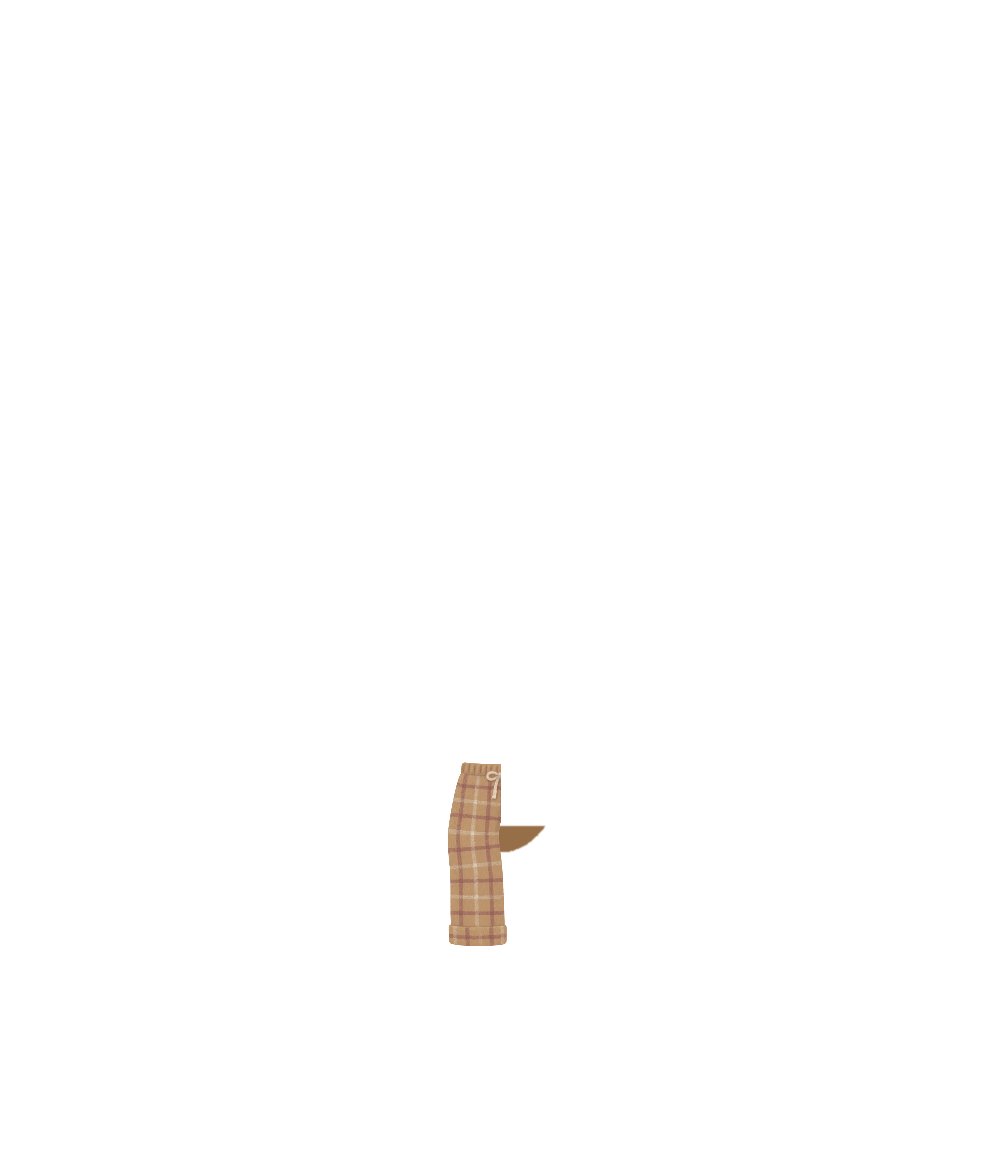
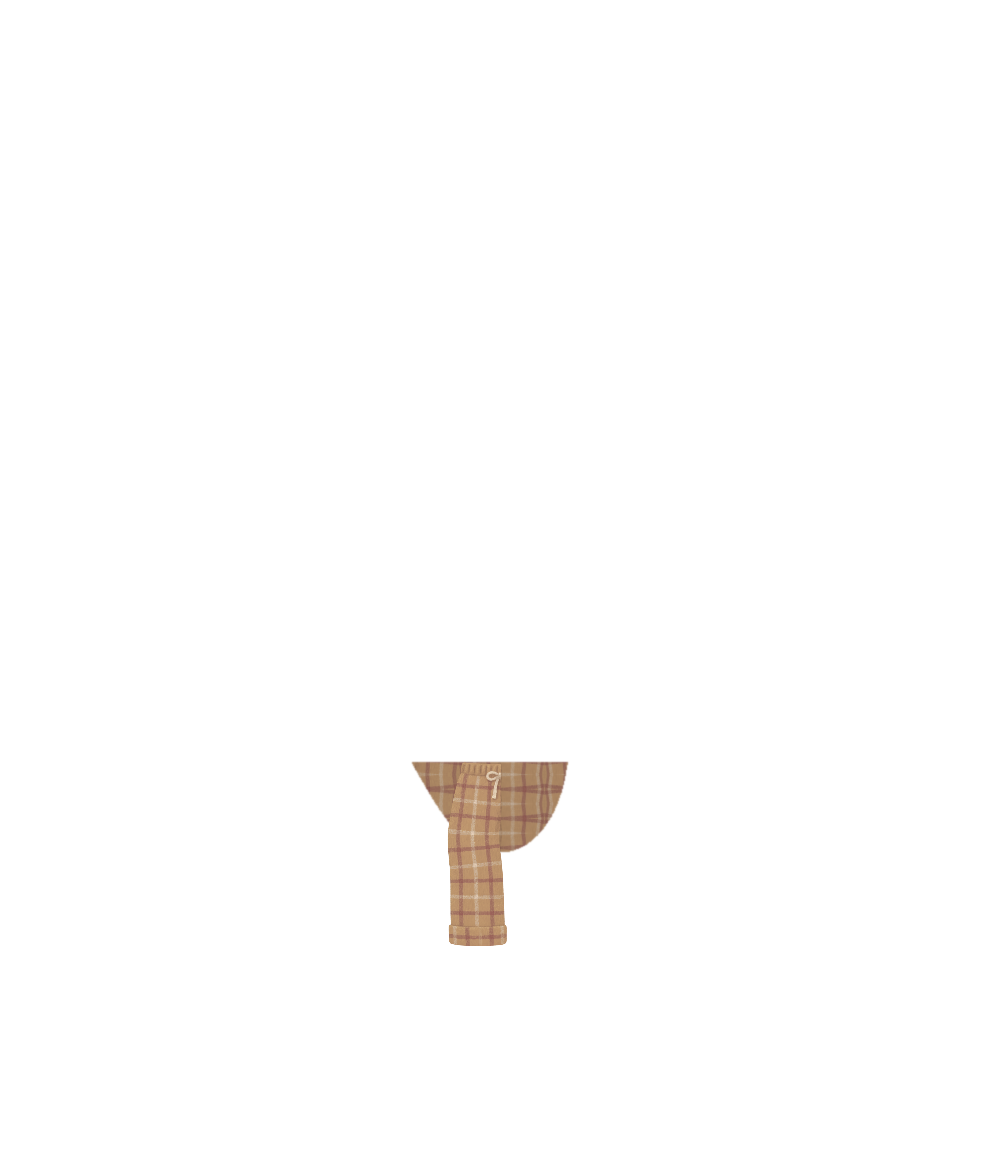
Presto regular pose in Erika's hat, glasses and tee; smoother pants over boots; level cello knees; no body behind his pants
- Ballad Bucket Hat, Fermata Frames, Tenuto Tee on Presto's regular pose from Erika's layered PDF (switched off).
- Keywi: boots under the joggers slope from the cuff corner to the boot's curve (no notches, no purple beside the pants).
- Cello: straight thigh and shin pieces, shin level with the thigh line.
- Presto crossed-leg poses: plaid covers his body below the waistband.

Claude-Session: https://claude.ai/code/session_01QFxDJgKewBc976sQiVPuU3

Changed region(s): [[0.496, 0.6391, 0.589, 0.7609], [0.403, 0.6391, 0.465, 0.7304]]

diff --git a/app/test/accessory_catalog_test.dart b/app/test/accessory_catalog_test.dart
@@ -395,7 +395,8 @@ void jalapenoOutfitTests() {
       expect(resolveAccessories(c, [i.id], 'strawberry', 'standing'), isEmpty, reason: i.id);
       final onPresto = i.id == 'jazzy_joggers' || i.id == 'serenade_sandals';
       for (final pose in prestoPoses) {
-        expect(resolveAccessories(c, [i.id], 'jalapeno', pose).isNotEmpty, onPresto, reason: '${i.id} $pose');
+        // Joggers and sandals are on all his poses; hat, glasses and tee on his regular pose so far.
+        expect(resolveAccessories(c, [i.id], 'jalapeno', pose).isNotEmpty, onPresto || pose == 'standing', reason: '${i.id} $pose');
       }
     }
     // Hat and glasses leave his body alone.
@@ -452,6 +453,14 @@ void jalapenoOutfitTests() {
       // The crossed foot is not drawn over another shoe.
       expect(order(e.value, e.key, ['red_sneakers', 'jazzy_joggers']).contains('foot.png'), isFalse);
     }
+    // His regular pose in Keywi's set (Erika's layers): sleeves over the arms, tee over the sleeves and the joggers, hat on top.
+    var st = order('assets/art/avatar_pose/jalapeno_standing', 'standing', ['tenuto_tee', 'jazzy_joggers', 'ballad_bucket_hat', 'fermata_frames']);
+    expect(st.indexOf('7_arm_viewer_left.png'), lessThan(st.indexOf('sleeve_viewer_right.png')));
+    expect(st.indexOf('sleeve_viewer_right.png'), lessThan(st.indexOf('sleeve_viewer_left.png')));
+    expect(st.indexOf('sleeve_viewer_left.png'), lessThan(st.indexOf('tee.png')));
+    expect(st.indexOf('front.png'), lessThan(st.indexOf('tee.png')));
+    expect(st.indexOf('2_mustache.png'), lessThan(st.indexOf('frames.png')));
+    expect(st.last, 'hat.png');
     // Under the instrument.
     var o = order('assets/art/avatar_instrument/jalapeno_ukulele', 'ukulele', ['jazzy_joggers']);
     expect(o.indexOf('front.png'), lessThan(o.indexOf('7_ukulele.png')));

diff --git a/tools/accessory_fitting/cello.py b/tools/accessory_fitting/cello.py
@@ -1,14 +1,44 @@
 from fit2 import *
 from PIL import ImageDraw, ImageFont
 TAG='avatar_instrument/jalapeno_cello'
+def straight(p0,p1,side,kw,sy0,sy1,roi,round_start=0,round_hw=0,cx=None):
+    """One straight piece of a pant leg from p0 to p1 (canvas px), showing source rows sy0..sy1 of that leg."""
+    x0,y0,x1,y1=roi; p0=np.array(p0,float); p1=np.array(p1,float); L=np.hypot(*(p1-p0)); T=(p1-p0)/L
+    yy,xx=np.mgrid[0:(y1-y0)*K,0:(x1-x0)*K]; q=np.stack([xx.ravel()/K+x0,yy.ravel()/K+y0],1)-p0
+    S=q@T; d=-(T[0]*q[:,1]-T[1]*q[:,0]); my=(sy0+S/L*(sy1-sy0)); mx=((XL if side=='L' else XR) if cx is None else (cx if side=='L' else 2*XC-cx))+d/kw
+    my=np.where((S<0)|(S>L),-10,my).reshape(yy.shape).astype(np.float32); mx=mx.reshape(yy.shape).astype(np.float32)
+    src=PANTS.copy()
+    if side=='L': src[:,XC+3:,3]=0
+    else: src[:,:XC-3,3]=0
+    pm=np.concatenate([src[...,:3]*src[...,3:],src[...,3:]],-1); pm=cv2.GaussianBlur(pm,(0,0),max(0.5,0.35/(kw*K)))
+    o=cv2.remap(pm,mx,my,cv2.INTER_LINEAR,borderMode=cv2.BORDER_CONSTANT,borderValue=0)
+    if round_start:   # round the outer corner at the start of this piece (the knee)
+        hw=round_hw; r=round_start; Sg=S.reshape(yy.shape); dg=np.abs(d).reshape(yy.shape)
+        cut=(Sg<r)&(dg>hw-r)&(((r-Sg)**2+(dg-(hw-r))**2)>r*r); o[cut]=0
+    o=cv2.resize(o,(x1-x0,y1-y0),interpolation=cv2.INTER_AREA); al=np.maximum(o[...,3:],1e-6)
+    out=np.zeros((1000,1000,4),np.float32); out[y0:y1,x0:x1]=np.concatenate([np.clip(o[...,:3]/al,0,1),o[...,3:]],-1); return out
 def build():
-    m,leg,a=legs_of(TAG); Li,Ri=leg_info(a,True),leg_info(a,False); kw=.22; h=(XC-XL)*kw; mid=478.0; cuff=min(Li['foot_top'],Ri['foot_top'])-5
-    def pts(sg):
-        X=lambda x: x if sg>0 else 2*mid-x   # points given for the viewer-left leg, mirrored for the other
-        return [(X(mid-h),756),(X(mid-h),784),(X(425),800),(X(372),803),(X(326),805),(X(303),826),(X(302),856),(X(304),cuff)]
-    L=sum(np.hypot(*np.diff(np.array(pts(1)),axis=0).T)); kl0=L/ph*0.55
-    A=ribbon(pts(1),'L',kw,kl0,(200,740,520,930)); B=ribbon(pts(-1),'R',kw,kl0,(440,740,760,930))
-    g=np.zeros_like(A); poly=np.array([[mid-h,770],[mid+h,770],[mid+h+28,838],[mid-h-28,838]],np.int32); mk=np.zeros(A.shape[:2],np.uint8); cv2.fillPoly(mk,[poly],255)
+    """Seated: each pant leg is a straight thigh piece and a straight shin piece that overlaps it at the knee (a folded
+    knee, not a curve, so the plaid stays straight on both pieces)."""
+    m,leg,a=legs_of(TAG); Li,Ri=leg_info(a,True),leg_info(a,False); kw=.22; hw=(XC-XL)*kw; mid=478.0; cuff=min(Li['foot_top'],Ri['foot_top'])-5
+    ty=803.0; knee=303.0; split=CYS+(ph-CYS)*0.60      # source rows: thigh gets 60% of the leg, shin the rest
+    def meas(row,side):
+        r=np.nonzero(PANTS[int(row),:XC,3]>0.5)[0] if side=='L' else np.nonzero(PANTS[int(row),XC:,3]>0.5)[0]+XC
+        c=(r.max()+r.min())/2; return (r.max()-r.min())/2*kw, (c if side=='L' else 2*XC-c)     # half width, centre (as a left-leg column)
+    out=[]
+    for side,sg in (('L',1),('R',-1)):
+        X=lambda x: x if sg>0 else 2*mid-x
+        hwk,cxs=meas(split,side); _,cxt=meas((CYS+split)/2,side)
+        roi=(200,740,520,930) if sg>0 else (440,740,760,930)
+        hip=straight((X(mid-hw),752),(X(mid-hw),ty),side,kw,0,CYS,roi)
+        thigh=straight((X(mid-8),ty),(X(knee),ty),side,kw,CYS,split,roi,cx=cxt)
+        _t=np.nonzero(thigh[:,int(X(knee+6)),3]>0.5)[0]; ttop=float(_t.min())      # top line of the thigh at the knee
+        shin=straight((X(knee),ttop),(X(knee+1),cuff),side,kw,split-60,ph,roi,round_start=16,round_hw=hwk,cx=cxs)   # shin starts level with it
+        # a soft fold line where the shin hangs over the thigh
+        sh=np.zeros_like(shin); sm=cv2.GaussianBlur(shin[...,3],(0,0),2.2); sh[...,3]=np.clip(sm-shin[...,3],0,1)*0.30*(thigh[...,3]>0.5)
+        out.append(over(over(over(hip,thigh),sh),shin))
+    A,B=out
+    g=np.zeros_like(A); poly=np.array([[mid-hw,770],[mid+hw,770],[mid+hw+28,838],[mid-hw-28,838]],np.int32); mk=np.zeros(A.shape[:2],np.uint8); cv2.fillPoly(mk,[poly],255)
     g[...,:3]=FABRIC; g[...,3]=cv2.GaussianBlur(mk.astype(np.float32)/255,(0,0),0.8); A=over(g,A)
     sL=sandal(Li['fx'][1],Li['fx'][0],Li['bot']); sR=sandal(Ri['fx'][0],Ri['fx'][1],Ri['bot'])
     return dict(m=m,leg=leg,A=A,B=B,legs_trim=trimmed_legs(a,cuff),soles=over(sL[0],sR[0]),straps=over(sL[1],sR[1]))

diff --git a/tools/accessory_fitting/std.py b/tools/accessory_fitting/std.py
@@ -1,0 +1,44 @@
+# Señor Jalapresto, regular pose: Ballad Bucket Hat, Fermata Frames and Tenuto Tee from Erika's layered PDF presto_top_half.pdf
+import numpy as np, cv2, sys
+from PIL import Image, ImageDraw, ImageFont
+sys.path.insert(0,'/home/claude/pp'); import fit2 as F
+AR=F.AR; TAG='avatar_pose/jalapeno_standing'
+bb_pdf=Image.open('body.png').getbbox(); bb_app=Image.open(AR+TAG+'/1_body.png').getbbox()
+kx=(bb_app[2]-bb_app[0])/(bb_pdf[2]-bb_pdf[0]); ky=(bb_app[3]-bb_app[1])/(bb_pdf[3]-bb_pdf[1]); k=(kx+ky)/2
+M=np.float32([[k,0,bb_app[0]-bb_pdf[0]*k],[0,k,bb_app[1]-bb_pdf[1]*k]])
+def piece(*names):
+    out=None
+    for n in names:
+        a=np.asarray(Image.open(n+'.png').convert('RGBA')).astype(np.float32)/255; pm=np.concatenate([a[...,:3]*a[...,3:],a[...,3:]],-1)
+        o=cv2.warpAffine(pm,M,(1000,1000),flags=cv2.INTER_AREA); al=np.maximum(o[...,3:],1e-6); o=np.concatenate([np.clip(o[...,:3]/al,0,1),np.clip(o[...,3:],0,1)],-1)
+        out=o if out is None else F.over(out,o)
+    return out
+P=dict(hat=piece('hat'),glasses=piece('glasses'),tee=piece('tee_border','tee_fill','tee_line','logo'),sl=piece('sleeve_l_fill','sleeve_l_line'),sr=piece('sleeve_r_fill','sleeve_r_line'))
+L=lambda n: F.lay(AR+TAG+f'/{n}.png')
+ac=AR+'accessories/'; g=lambda i,f: F.lay(ac+f'{i}/jalapeno_standing/{f}')[40:1040]
+JS=dict(sole_flat=g('serenade_sandals','sole_flat.png'),strap_flat=g('serenade_sandals','strap_flat.png'),sole_tip=g('serenade_sandals','sole_tiptoe.png'),strap_tip=g('serenade_sandals','strap_tiptoe.png'),
+        soles=g('serenade_sandals','soles.png'),straps=g('serenade_sandals','straps.png'),back=g('jazzy_joggers','back.png'),foot=g('jazzy_joggers','foot.png'),front=g('jazzy_joggers','front.png'))
+def render(what):
+    w=set(what); ls=[L('1_body'),L('4_eyes_brows'),L('3_teeth'),L('2_mustache')]
+    if 'glasses' in w: ls.append(P['glasses'])
+    j,s='joggers' in w,'sandals' in w
+    if s: ls.append(JS['sole_flat'] if j else JS['soles'])
+    ls.append(L('5_legs_feet'))
+    if s: ls.append(JS['strap_flat'] if j else JS['straps'])
+    if j: ls+= [JS['back']]+([JS['sole_tip']] if s else [])+[JS['foot']]+([JS['strap_tip']] if s else [])+[JS['front']]
+    ls+= [L('6_arm_viewer_right'),L('7_arm_viewer_left')]
+    if 'tee' in w: ls+= [P['sr'],P['sl'],P['tee']]
+    if 'hat' in w: ls.append(P['hat'])
+    return F.img(F.flat(ls))
+if __name__=='__main__':
+    print('scale',kx,ky)
+    cols=[('Plain',[]),('Ballad Bucket Hat',['hat']),('Fermata Frames',['glasses']),('Tenuto Tee',['tee']),('Hat + Frames + Tee',['hat','glasses','tee']),('Whole set',['hat','glasses','tee','joggers','sandals'])]
+    f=ImageFont.truetype('/usr/share/fonts/truetype/dejavu/DejaVuSans-Bold.ttf',24); cw=520
+    W=Image.new('RGB',(cw*3,(cw+44)*2),'white'); d=ImageDraw.Draw(W)
+    for i,(n,wh) in enumerate(cols):
+        x,y=(i%3)*cw,(i//3)*(cw+44); W.paste(render(wh).resize((cw,cw),Image.LANCZOS),(x,y+44)); d.text((x+12,y+10),n,fill=(60,40,110),font=f)
+    W.save('Presto_regular_pose_your_layers.png')
+    a=Image.open('pg-1.png').convert('RGB').crop((150,0,850,1042)).resize((640,953)); b=render(['hat','glasses','tee']).crop((180,0,820,1000)).resize((640,1000),Image.LANCZOS); c=render(['hat','glasses','tee','joggers','sandals']).crop((180,0,820,1000)).resize((640,1000),Image.LANCZOS)
+    Z=Image.new('RGB',(1960,1050),'white'); dz=ImageDraw.Draw(Z)
+    for i,(n,im) in enumerate((('Your PDF',a),('In the app build',b),('With the joggers and sandals',c))): Z.paste(im,(i*655,45)); dz.text((i*655+10,8),n,fill=(60,40,110),font=f)
+    Z.save('Presto_regular_pose_yours_vs_app.png')

diff --git a/tools/accessory_fitting/boots.py b/tools/accessory_fitting/boots.py
@@ -1,3 +1,4 @@
+import cv2
 import numpy as np, json
 from PIL import Image
 import sys; sys.path.insert(0,'/home/claude/pp'); import fit2 as F
@@ -15,15 +16,28 @@ def profile(al,kind):
 _m,_leg,_a=F.legs_of('avatar_pose/kiwi_standing'); PA,PB,_cr,_inf,_cuff=F.joggers_two_legs(_a,.22,702); PA,PB=PA[:1000],PB[:1000]
 yy=np.arange(1000)[:,None]
 def cuff_line(leg):
-    """per column: the bottom edge of this pant leg's cuff, carried sideways past both ends of the cuff"""
-    al=leg[...,3]>0.5; cols=np.nonzero(al.any(0))[0]; bot=np.array([np.nonzero(al[:,x])[0].max() for x in cols]); keep=bot>bot.max()-28
-    line=np.full(1000,float(bot.max())); line[cols[keep].min():cols[keep].max()+1]=np.interp(np.arange(cols[keep].min(),cols[keep].max()+1),cols[keep],bot[keep]); return line
+    """Per column: where the boot may start showing. Under the flat bottom edge of this pant leg's cuff it is that edge;
+    everywhere else (rounded cuff corners, the sides of the pant leg, columns the pants do not reach) it is the cuff's
+    lowest point, so no boot shows beside the pants above their bottom edge."""
+    al=leg[...,3]>0.5; cols=np.nonzero(al.any(0))[0]; bot=np.array([np.nonzero(al[:,x])[0].max() for x in cols]).astype(float)
+    flat=np.abs(np.gradient(bot))<1.0; i=int(bot.argmax()); lo=hi=None
+    # the longest run of gently sloping columns: the cuff's bottom edge
+    runs=[]; st=None
+    for k,f in enumerate(flat):
+        if f and st is None: st=k
+        if (not f or k==len(flat)-1) and st is not None: runs.append((st,k if not f else k+1)); st=None
+    lo,hi=max(runs,key=lambda r:r[1]-r[0]); lo,hi=lo+8,hi-8   # stay clear of the rounded cuff corners
+    line=np.full(1000,float(bot.max())); line[cols[lo]:cols[hi-1]+1]=bot[lo:hi]; return line
 def boot_top(boot):
     al=boot[...,3]>0.5; cols=np.nonzero(al.any(0))[0]; top=np.array([np.nonzero(al[:,x])[0].min() for x in cols]); keep=top<top.min()+14
     return np.interp(np.arange(1000),cols[keep],top[keep])
 def over_boots(boot,leg):
     """Option B: pants over the boots - the boot shows only below that pant leg's cuff."""
-    o=boot.copy(); o[...,3]*=(yy>=cuff_line(leg)[None,:]-3); return o
+    o=boot.copy(); keep=(yy>=cuff_line(leg)[None,:]-2)&(boot[...,3]>0.5)
+    # Grade the cut: instead of a step beside the cuff, the boot's edge runs in a straight slope from the cuff's bottom
+    # corner out to the curve of the boot (convex hull of what is kept, still inside the boot's own shape).
+    pts=cv2.findNonZero(keep.astype(np.uint8)); hull=np.zeros(keep.shape,np.uint8); cv2.fillConvexPoly(hull,cv2.convexHull(pts),1)
+    m=cv2.GaussianBlur(hull.astype(np.float32),(0,0),0.8); o[...,3]*=np.clip(m*1.6-0.3,0,1); return o
 def shaft(boot):
     al=boot[...,3]>0.5; cols=np.nonzero(al.any(0))[0]; top=np.array([np.nonzero(al[:,x])[0].min() for x in cols]); keep=top<top.min()+14; return cols[keep].mean(), float(top.min())
 def tucked():

diff --git a/tools/accessory_fitting/wire_top.py b/tools/accessory_fitting/wire_top.py
@@ -1,0 +1,24 @@
+# Wires Erika's hat, glasses and tee (presto_top_half.pdf) onto Señor Jalapresto's regular pose.
+import json, os, numpy as np, sys
+from PIL import Image
+sys.path.insert(0,'/home/claude/th'); import std
+AC='/home/claude/jamjot/app/assets/art/accessories/'; T,B=40,110; TAG='jalapeno_standing'
+def save(x,item,name):
+    c=np.zeros((1000+T+B,1000,4),np.float32); c[T:T+1000]=x; d=f'{AC}{item}/{TAG}/'; os.makedirs(d,exist_ok=True); Image.fromarray((np.clip(c,0,1)*255).round().astype('uint8')).save(d+name)
+P=std.P
+save(P['hat'],'ballad_bucket_hat','hat.png'); save(P['glasses'],'fermata_frames','frames.png'); save(P['sr'],'tenuto_tee','sleeve_viewer_right.png'); save(P['sl'],'tenuto_tee','sleeve_viewer_left.png'); save(P['tee'],'tenuto_tee','tee.png')
+art={'ballad_bucket_hat':[{'slot':'hat','file':'hat.png'}],'fermata_frames':[{'slot':'face','file':'frames.png'}],
+     'tenuto_tee':[{'slot':'clothing_lower','file':'sleeve_viewer_right.png'},{'slot':'clothing_lower','file':'sleeve_viewer_left.png'},{'slot':'clothing_lower','file':'tee.png'}]}
+c=json.load(open(AC+'catalog.json'))
+for it in c['items']:
+    if it['id'] in art:
+        it['art'][TAG]=art[it['id']]
+        if it['id']=='ballad_bucket_hat': it.setdefault('frames',{})[TAG]=[0,2,985]
+note=" Ballad Bucket Hat, Fermata Frames and Tenuto Tee on Señor Jalapresto's regular pose are Erika's own layers (presto_top_half.pdf, 2026-11-13): sleeves over the arms, tee over the sleeves and over the joggers' waistband, glasses over the mustache."
+if 'presto_top_half.pdf' not in c['note']: c['note']=c['note'].rstrip()+note
+open(AC+'catalog.json','w').write(json.dumps(c,indent=2,ensure_ascii=False)+'\n')
+p='/home/claude/jamjot/app/pubspec.yaml'; s=open(p).read(); anchor='    - assets/art/accessories/black_top_hat/\n'; add=''
+for item in art:
+    line=f'    - assets/art/accessories/{item}/{TAG}/\n'
+    if line not in s: add+=line
+open(p,'w').write(s.replace(anchor,add+anchor,1))

diff --git a/tools/accessory_fitting/fit2.py b/tools/accessory_fitting/fit2.py
@@ -95,3 +95,15 @@ def img(c): return Image.fromarray((np.clip(c[...,:3],0,1)*255).round().astype('
 def trimmed_legs(a,cuff,keep=10):
     """The legs layer with everything above the pant cuffs removed, so no leg shows outside the pants."""
     o=a.copy(); o[:int(cuff-keep),:,3]=0; return o
+
+def seat_fill(body_alpha,mid_x,waist_y,kw,kl,start=2,shade=0.9):
+    """Plaid fabric over every part of the body that would show below the waistband (behind and beside the pants), so
+    no body peeks out. Texture is the pants' own hip block, mirrored sideways and repeated downward to cover the area."""
+    yy,xx=np.mgrid[0:1000,0:1000].astype(np.float32); sx=XC+(xx-mid_x)/kw; sy=(yy-waist_y)/kl
+    al=PANTS[...,3]>0.5; r=np.nonzero(al[int(CY*0.6)])[0]; x0,x1=float(r.min()+25),float(r.max()-25); w=x1-x0
+    u=np.mod(sx-x0,2*w); sx=x0+np.where(u>w,2*w-u,u)                      # mirror across the hip block's sides
+    y0,y1=265.0,float(CY-30); hh=y1-y0; v=np.mod(sy-y0,2*hh); sy=y0+np.where(v>hh,2*hh-v,v)     # plain plaid rows only (below the bow, above the crotch)
+    pm=cv2.GaussianBlur(PANTS[...,:3],(0,0),max(0.5,0.35/kw)); tex=cv2.remap(pm,sx.astype(np.float32),sy.astype(np.float32),cv2.INTER_LINEAR,borderMode=cv2.BORDER_REFLECT)*shade
+    reg=np.zeros((1000,1000),np.float32); reg[int(waist_y+start):]=1
+    m=cv2.GaussianBlur((cv2.dilate((body_alpha>0.5).astype(np.uint8),np.ones((5,5),np.uint8))>0).astype(np.float32)*reg,(0,0),0.7)
+    return np.concatenate([tex,m[...,None]],-1)

diff --git a/tools/accessory_fitting/wire_presto.py b/tools/accessory_fitting/wire_presto.py
@@ -14,7 +14,7 @@ art={J:{},S:{}}
 # --- crossed legs: standing, acoustic guitar, electric guitar, ukulele ---
 for tag in ['avatar_pose/jalapeno_standing','avatar_instrument/jalapeno_acoustic_guitar','avatar_instrument/jalapeno_electric_guitar','avatar_instrument/jalapeno_ukulele']:
     m,leg,a=F.legs_of(tag); bb=Image.open(A+tag+f'/{leg}.png').getbbox(); P={k:v3.to_canvas(v,bb) for k,v in v3.PIE.items()}; t=tag.split('/')[1]
-    body=F.lay(A+tag+f'/{m["layers"][0]}.png')[...,3]; k=(bb[2]-bb[0])/581; back=F.gusset(P['A'],P['B'],body,bb[1]+(275-4)*k)
+    body=F.lay(A+tag+f'/{m["layers"][0]}.png')[...,3]; k=(bb[2]-bb[0])/581; back=F.over(F.seat_fill(body,bb[0]+(270.5-4)*k,bb[1]+(-30-4)*k,.78*k,v3.kl*k),P['A'])   # plaid over every part of his body below the waistband
     save(back,J,t,'back.png'); save(P['F2'],J,t,'foot.png'); save(P['B'],J,t,'front.png')
     save(F.over(P['S1'],P['S2']),S,t,'soles.png'); save(F.over(P['U1'],P['U2']),S,t,'straps.png')
     for n,k_ in (('sole_flat','S1'),('strap_flat','U1'),('sole_tiptoe','S2'),('strap_tiptoe','U2')): save(P[k_],S,t,n+'.png')

diff --git a/tools/accessory_fitting/README.md b/tools/accessory_fitting/README.md
@@ -23,12 +23,27 @@ this folder, `sources/` and the repo before they run again.
   (sole about 1.3 x foot length) and position are the same on every avatar. Mirrored when the toes point the other way;
   rotated for a tiptoe foot.
 
-**Pants over tall boots (boots.py `over_boots`, option B approved by Erika)**
-- Pants stay full length and in front. A second version of each boot is made for when the pants are worn: the boot is
-  hidden above the bottom edge of that pant leg's cuff (the cuff line is carried sideways past both ends of the cuff at
-  the cuff's lowest point), so the boot shows only below the cuff.
-- In the catalog the normal boot pieces get `unless_worn: [pants id]` and the trimmed ones `when_worn: [pants id]`.
-- Not used: option A (pants tucked in: pant legs re-aimed at the boot tops and cut there).
+**Pants over tall boots (boots.py `cuff_line`, `over_boots`; approved by Erika 2026-11-13 16:13 CT)**
+- Pants stay full length and in front. A second version of each boot is made for when the pants are worn.
+- Step 1, cut: the boot may show only directly under the flat bottom edge of that pant leg's cuff. Everywhere else
+  (the rounded cuff corners, beside the pant leg, columns the pants do not reach) it is hidden down to the cuff's lowest
+  point, so no boot shows beside the pants above their bottom edge.
+- Step 2, grade: take the convex hull of what is left and keep the original boot inside it. This fills the notches the
+  cut leaves, so the boot's edge runs in a straight slope from the cuff's bottom corner out to the curve of the boot.
+- In the catalog the normal boot pieces get `unless_worn: [pants id]` and the graded ones `when_worn: [pants id]`.
+- Not used: pants tucked into the boots; lowering or widening the cuffs.
+
+**Seated legs (cello.py)**
+- Each pant leg is a straight thigh piece and a straight shin piece, not a curve, so the plaid stays straight. The shin
+  starts level with the top line of the thigh, overlaps it at the knee, has a rounded knee corner and a soft fold line.
+
+**No body behind the pants (fit2.py `seat_fill`, `gusset`)**
+- Where the body is wider or longer than the pants (Señor Jalapresto's pepper tip), every body pixel below the
+  waistband is covered with plaid taken from the pants' own hip block, drawn under the pant legs.
+
+**Using Erika's own layered PDF (std.py, wire_top.py)**
+- Split the page into its top-level blocks, render each alone, and place them by matching her body layer to the app's
+  body layer. Keep her layer order.
 
 **Checking (sheet.py)**
 - `render(avatar, pose, ids)` draws an outfit with the app's own rules (catalog, manifest slots, slot rank, replaces,
